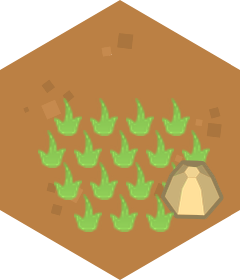
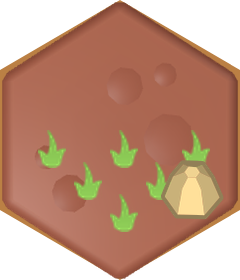
art: les hexagones de blé et de labour du pack EXTRA
Demande du commanditaire. La mesure renverse ce qu'on croyait : nos
tuiles ne sont pas des dalles en perspective mais des hexagones
RÉGULIERS vus de dessus (240 × 280, soit le 2/√3 d'un hexagone régulier).
Les modèles KayKit se rendaient tous à 30° d'élévation — invisible sur
un objet debout, fatal pour une dalle posée au sol, dont l'hexagone
sortait écrasé (240 × 108) et ne pouvait pas recouvrir le nôtre.

- Prise de vue par modèle (KAY_VIEWS, render_kaykit.js) : ces deux
  dalles se rendent à la verticale. Leur hexagone tombe alors à 1,115
  contre 1,167 pour le nôtre, et FLAT_STRETCH = 1,047 rattrape le reste.
- Le sol de champ change de visage : le labour au printemps (mottes et
  sillons), le blé l'été, en automne (miroir) et l'hiver, recolorés par
  la palette de saison. Les rangs de culture restent posés par région et
  donnent les sillons ; leur nuance passe un cran plus soutenue, sans
  quoi ils se fondaient dans le nouveau sol.
- Les deux tuiles de champ suivent le même cycle.
- Le pack EXTRA entre comme TROISIÈME racine (préfixe « extra/ »), pas
  en remplaçant la première. Vérifié fichier par fichier : il reprend
  les 221 modèles du pack de base à deux près (building_watermill_blue
  et building_bridge_B diffèrent). Nous employons le moulin rouge, mais
  basculer la racine aurait changé des modèles sans qu'on le veuille.
  Licence CC0 contrôlée au lancement comme les deux autres ; crédits et
  CREDITS.md à trois packs KayKit.
[…]

diff --git a/tools/render_kaykit.js b/tools/render_kaykit.js
@@ -55,11 +55,14 @@ const key = new THREE.DirectionalLight(0xffffff, 2.1); key.position.set(-4, 7, 3
 const fill = new THREE.DirectionalLight(0xffffff, 0.5); fill.position.set(4, 2, -3); scene.add(fill);
 const half = ${CANVAS} / 2 / ${PPU};
 const cam = new THREE.OrthographicCamera(-half, half, half, -half, 0.01, 400);
-const e = ${EL} * Math.PI / 180, a = ${AZ} * Math.PI / 180, d = 200;
+const d = 200;
 cam.up.set(0, 1, 0); cam.updateProjectionMatrix();
 const loader = new GLTFLoader();
 let current = null;
-window.__shot = (url) => new Promise((res, rej) => {
+// el / az : angles de prise de vue, par défaut ceux des tuiles. Une dalle posée à plat se rend à la
+// verticale (el = 90), sans quoi son hexagone, écrasé par la perspective, ne recouvre pas le nôtre.
+window.__shot = (url, el, az) => new Promise((res, rej) => {
+  const e = (el === undefined ? ${EL} : el) * Math.PI / 180, a = (az === undefined ? ${AZ} : az) * Math.PI / 180;
   loader.load(url, (g) => {
     if (current) scene.remove(current);
     current = g.scene; scene.add(current);
@@ -79,13 +82,14 @@ window.__ready = true;
 
 const MIME = { '.gltf': 'model/gltf+json', '.bin': 'application/octet-stream', '.png': 'image/png', '.js': 'text/javascript' };
 
-function serve(kayRoot, forestRoot, threeDir) {
+function serve(kayRoot, forestRoot, extraRoot, threeDir) {
   const srv = http.createServer((req, res) => {
     const url = decodeURIComponent(req.url.split('?')[0]);
     if (url === '/render.html') { res.writeHead(200, { 'Content-Type': 'text/html' }); res.end(PAGE); return; }
     let file = null, base = null;
     if (url.startsWith('/three/')) { base = threeDir; file = path.join(threeDir, url.slice(7)); }
     else if (url.startsWith('/kk/forest/')) { base = forestRoot; file = path.join(forestRoot, url.slice(11)); }
+    else if (url.startsWith('/kk/extra/')) { base = extraRoot; file = path.join(extraRoot, url.slice(10)); }
     else if (url.startsWith('/kk/')) { base = kayRoot; file = path.join(kayRoot, url.slice(4)); }
     if (!file || !path.resolve(file).startsWith(path.resolve(base)) || !fs.existsSync(file)) {
       res.writeHead(404); res.end('non'); return;
@@ -97,15 +101,21 @@ function serve(kayRoot, forestRoot, threeDir) {
 }
 
 (async () => {
-  const models = JSON.parse(fs.readFileSync(process.argv[2], 'utf8'));
+  // Chaque entrée vaut « alias: "chemin" », ou « alias: { model, el, az } » pour une prise de vue à part.
+  const models = Object.fromEntries(Object.entries(JSON.parse(fs.readFileSync(process.argv[2], 'utf8')))
+    .map(([k, v]) => [k, typeof v === 'string' ? { model: v } : v]));
   const kayRoot = path.join(arg('--src', '/home/user/kaykit/KayKit-Medieval-Hexagon-Pack-1.0'),
     'addons', 'kaykit_medieval_hexagon_pack', 'Assets', 'gltf');
   // second pack : la forêt. Un chemin de modèle qui commence par « forest/ » y est cherché.
   const forestRoot = path.join(arg('--forest', '/home/user/kaykit/KayKit-Forest-Nature-Pack-1.0'), 'gltf');
+  // troisième pack : l'EXTRA du Hexagon Pack, préfixe « extra/ ». Il contient les 221 modèles du pack de base
+  // (à deux près, un moulin bleu et un pont, que nous n'employons pas) plus 183 autres : on le garde à part
+  // plutôt que d'y basculer la racine, pour qu'aucun des modèles déjà en place ne change sans qu'on le veuille.
+  const extraRoot = path.join(arg('--extra', '/home/user/kaykit/extra/Asset4'), 'gltf');
   const out = arg('--out', path.join(CACHE, 'kaykit'));
   fs.mkdirSync(out, { recursive: true });
   const threeDir = ensureThree();
-  const srv = await serve(kayRoot, forestRoot, threeDir);
+  const srv = await serve(kayRoot, forestRoot, extraRoot, threeDir);
   const port = srv.address().port;
   const b = await chromium.launch({ args: ['--use-gl=swiftshader', '--enable-unsafe-swiftshader'] });
   const page = await b.newPage();
@@ -115,17 +125,20 @@ function serve(kayRoot, forestRoot, threeDir) {
 
   const meta = {};
   const errors = [];
-  for (const [name, rel] of Object.entries(models)) {
+  for (const [name, spec] of Object.entries(models)) {
+    const rel = spec.model;
     const url = `/kk/${rel}.gltf`;
-    const disk = rel.startsWith('forest/') ? path.join(forestRoot, `${rel.slice(7)}.gltf`) : path.join(kayRoot, `${rel}.gltf`);
+    const disk = rel.startsWith('forest/') ? path.join(forestRoot, `${rel.slice(7)}.gltf`)
+      : rel.startsWith('extra/') ? path.join(extraRoot, `${rel.slice(6)}.gltf`)
+        : path.join(kayRoot, `${rel}.gltf`);
     if (!fs.existsSync(disk)) { errors.push(`${name} : modèle absent (${rel}.gltf)`); continue; }
     let box;
-    try { box = await page.evaluate((u) => window.__shot(u), url); }
+    try { box = await page.evaluate(([u, el, az]) => window.__shot(u, el, az), [url, spec.el, spec.az]); }
     catch (e) { errors.push(`${name} : ${e.message}`); continue; }
     const buf = await page.locator('#c').screenshot({ omitBackground: true });
     const tmp = path.join(out, `${name}.raw.png`);
     fs.writeFileSync(tmp, buf);
-    meta[name] = { model: rel, box: { min: box.min.map((x) => +x.toFixed(4)), max: box.max.map((x) => +x.toFixed(4)) }, origin: box.origin.map((x) => +x.toFixed(2)) };
+    meta[name] = { model: rel, el: spec.el, az: spec.az, box: { min: box.min.map((x) => +x.toFixed(4)), max: box.max.map((x) => +x.toFixed(4)) }, origin: box.origin.map((x) => +x.toFixed(2)) };
   }
   await b.close();
   srv.close();

diff --git a/tools/build_images.py b/tools/build_images.py
@@ -69,10 +69,23 @@ KAYKIT = dict(pack="KayKit : Medieval Hexagon Pack (1.0)", author="Kay Lousberg"
 
 # Alias de modèle → chemin sous Assets/gltf/ du pack. Le rouge est la couleur d'équipe
 # dont les toits sont les plus proches de notre terre cuite.
+# Étirement vertical des dalles plates, une fois rendues à la verticale (KAY_VIEWS). Nos tuiles sont des
+# hexagones réguliers de 240 × 280 (rapport 1,167) ; l'hexagone KayKit vu de dessus donne 1,115. Le reste
+# de l'écart se rattrape ici — c'est peu, et invisible sur une texture de sol.
+FLAT_STRETCH = 1.047
+
 FOREST = dict(pack="KayKit : Forest Nature Pack (1.0)", author="Kay Lousberg",
               url="https://kaylousberg.itch.io/forest-nature-pack",
               mirror="fourni par le commanditaire (téléchargement direct)",
               license_file="License.txt")
+
+# Pack EXTRA du Hexagon Pack, fourni par le commanditaire. Il reprend les 221 modèles du pack de base (à deux
+# près — un moulin bleu et un pont — que nous n'employons pas) et en ajoute 183. On le garde comme troisième
+# racine, préfixe « extra/ », plutôt que d'y basculer : aucun modèle déjà en place ne change sans qu'on le veuille.
+EXTRA = dict(pack="KayKit : Medieval Hexagon Pack EXTRA (1.0)", author="Kay Lousberg",
+             url="https://kaylousberg.itch.io/kaykit-medieval-hexagon",
+             mirror="fourni par le commanditaire (téléchargement direct)",
+             license_file="License.txt")
 
 KAY_MODELS = {
     # --- pack Forest : les feuillus existent en huit palettes, dont les couleurs de saison ;
@@ -135,6 +148,10 @@ KAY_MODELS = {
     "massif_B": "decoration/nature/mountain_B",
     "massif_C": "decoration/nature/mountain_A",
     "bloc_grand": "forest/Color1/Rock_2_C_Color1",
+    # --- pack EXTRA : les deux dalles hexagonales. Elles se rendent à la VERTICALE (voir KAY_VIEWS) :
+    # nos tuiles sont des hexagones réguliers vus de dessus (240 × 280), pas des dalles en perspective.
+    "ble": "extra/buildings/neutral/building_grain",
+    "terre": "extra/buildings/neutral/building_dirt",
     "caillou_A": "decoration/nature/rock_single_A",
     "caillou_B": "decoration/nature/rock_single_B",
     "caillou_C": "decoration/nature/rock_single_C",
@@ -256,7 +273,9 @@ COLORS = {
     "stone_winter": "#e3eaf0", "dirt_winter": "#e6ebf0",
     "heath_ground": {"spring": "#a9b26a", "summer": "#b0a45a", "autumn": "#b58c55", "winter": SNOW},
     "heather": {"spring": "#b98ccc", "summer": "#a67bb8", "autumn": "#8f6a9e", "winter": "#d9d0e2"},
-    "crop": {"spring": "#8fca5c", "summer": "#a9c24a", "autumn": "#e2b44b", "winter": "#e8edf1"},
+    # les rangs de culture se posent désormais sur une dalle de blé, plus sur de la terre nue : il leur faut
+    # une nuance un cran plus soutenue que le sol de la saison, sinon ils s'y fondent et les sillons disparaissent
+    "crop": {"spring": "#8fca5c", "summer": "#86a637", "autumn": "#c08c26", "winter": "#cfe0ec"},
     "blossom": "#f2d3de",
 }
 
@@ -390,11 +409,12 @@ def fit(im, box):
 class Sources:
     """Accès aux sprites : Hexagon Pack en 2× (cache SVG ou Lanczos), autres packs natifs."""
 
-    def __init__(self, src_root, kay_root=None, animals_root=None, forest_root=None):
+    def __init__(self, src_root, kay_root=None, animals_root=None, forest_root=None, extra_root=None):
         self.src = src_root
         self.kay_root = kay_root
         self.animals_root = animals_root
         self.forest_root = forest_root
+        self.extra_root = extra_root
         self.hp_png = src_root / HP / "PNG"
         self.tiles2x = CACHE / "hex2x_tiles"
         self.objs2x = CACHE / "hex2x_objects"
@@ -457,26 +477,37 @@ class Sources:
         self.kay2x.mkdir(parents=True, exist_ok=True)
         todo = rebuild or not (self.kay2x / "meta.json").exists() or any(
             not (self.kay2x / f"{n}.raw.png").exists() for n in KAY_MODELS)
+        if not todo and (self.kay2x / "meta.json").exists():
+            # une prise de vue modifiée (KAY_VIEWS) ne change pas le nom du fichier : on la compare au cache
+            m = json.loads((self.kay2x / "meta.json").read_text(encoding="utf-8"))["models"]
+            todo = any((m.get(n) or {}).get("el") != KAY_VIEWS.get(n, {}).get("el")
+                       or (m.get(n) or {}).get("az") != KAY_VIEWS.get(n, {}).get("az") for n in KAY_MODELS)
         if not todo:
             return
         jobs = CACHE / "kaykit_models.json"
-        jobs.write_text(json.dumps(KAY_MODELS, indent=1), encoding="utf-8")
+        spec = {n: (dict(model=p, **KAY_VIEWS[n]) if n in KAY_VIEWS else p) for n, p in KAY_MODELS.items()}
+        jobs.write_text(json.dumps(spec, indent=1), encoding="utf-8")
         print(f"rendu des {len(KAY_MODELS)} modèles KayKit (Chromium + three.js)…")
         subprocess.run(["node", str(ROOT / "tools" / "render_kaykit.js"), str(jobs),
-                        "--src", str(self.kay_root), "--forest", str(self.forest_root), "--out", str(self.kay2x)], check=True)
+                        "--src", str(self.kay_root), "--forest", str(self.forest_root), "--extra", str(self.extra_root), "--out", str(self.kay2x)], check=True)
 
     def kay_meta(self):
         if not getattr(self, "_kay_meta", None):
             self._kay_meta = json.loads((self.kay2x / "meta.json").read_text(encoding="utf-8"))
         return self._kay_meta
 
-    def kay(self, name, scale=1.0):
+    def kay(self, name, scale=1.0, sy=1.0):
         """Modèle KayKit rendu : (image rognée, origine x, origine y dans l'image).
 
         L'origine du modèle — le centre de son pied — est au centre du canevas de rendu ;
         après rognage on sait donc exactement par quel point l'ancrer sur la tuile.
+
+        `sy` étire l'image en hauteur seulement. Il ne sert qu'aux pièces **plates** posées au sol :
+        nos tuiles sont dessinées à une élévation plus haute (face du dessus : 137 px pour 240 de large)
+        que celle des rendus 3D (108 px), écart invisible sur un objet debout mais qui saute aux yeux
+        sur une dalle. Voir FLAT_STRETCH.
         """
-        k = (name, scale)
+        k = (name, scale, sy)
         if k in self.kay_cache:
             return self.kay_cache[k]
         if name not in KAY_MODELS:
@@ -494,9 +525,9 @@ class Sources:
         # l'origine du modèle est donnée par le rendu (la caméra vise le milieu du modèle, pas l'origine)
         org = self.kay_meta()["models"][name].get("origin") or [p and 0, 0]
         ox, oy = org[0] - box[0], org[1] - box[1]
-        if scale != 1.0:
-            im = im.resize((max(1, round(im.width * scale)), max(1, round(im.height * scale))), Image.LANCZOS)
-            ox, oy = ox * scale, oy * scale
+        if scale != 1.0 or sy != 1.0:
+            im = im.resize((max(1, round(im.width * scale)), max(1, round(im.height * scale * sy))), Image.LANCZOS)
+            ox, oy = ox * scale, oy * scale * sy
         self.kay_used.add(name)
         self.kay_cache[k] = (im, ox, oy)
         return self.kay_cache[k]
@@ -552,6 +583,15 @@ def kay_model(sprite, season):
     return f"{sprite[5:]}_{season}" if sprite.startswith("kays:") else sprite[4:]
 
 
+# Prise de vue particulière de certains modèles. Par défaut tout se rend à 30° d'élévation et −30° d'azimut,
+# comme les objets posés sur les tuiles. Une **dalle plate** doit au contraire se rendre à la verticale :
+# à 30°, son hexagone est écrasé (240 × 108) et ne peut pas recouvrir le nôtre (240 × 280).
+KAY_VIEWS = {
+    "ble": {"el": 90, "az": 0},
+    "terre": {"el": 90, "az": 0},
+}
+
+
 def L(sprite, x, y, kind="static", seasons=None, mirror=False, scale=1.0, order=None, **extra):
     return dict(sprite=sprite, x=x, y=y, kind=kind, seasons=seasons, mirror=mirror, scale=scale, order=order, **extra)
 
@@ -590,12 +630,18 @@ TILES = {
                                            L(KPOMMIER, 87, 90, height=58, fruits=True), L(KPOMMIER, 60, 108, height=58, fruits=True)],
                   note="Verger : 6 feuillus du pack Forest ; fruits dessinés en été/automne."),
     # --- champs : parcelles en quinconce + foin + clôture
-    "field_1": T("field", "dirt_06", [L("ht:bushGrass:1.9", x, y, "crop") for (x, y) in
-                                      [(34, 68), (52, 68), (70, 68), (88, 68), (26, 84), (44, 84), (62, 84), (80, 84), (98, 84), (34, 100), (52, 100), (70, 100), (88, 100), (44, 116), (62, 116), (80, 116)]]
-                 + [L("obj:hay", 96, 110)], base_kind="dirt", note="Champ : terre nue + rangs de culture (touffes recolorées par saison) + botte de foin."),
-    "field_2": T("field", "dirt_06", [L("ht:bushGrass:1.9", x, y, "crop") for (x, y) in
-                                      [(44, 66), (62, 66), (80, 66), (34, 82), (52, 82), (70, 82), (88, 82), (26, 98), (44, 98), (62, 98), (80, 98), (98, 98), (52, 114), (70, 114)]]
-                 + [L("obj:hay", 30, 116), L("obj:fence", 96, 118)], base_kind="dirt", base_mirror=True, note="Champ : terre nue en miroir + rangs de culture + foin + clôture."),
+    "field_1": T("field", "dirt_06", [L("kay:terre", 60, 70, "field", width=236, flat=True, seasons=["spring"]),
+                                      L("kay:ble", 60, 70, "field", width=240, flat=True, seasons=["summer", "autumn", "winter"])]
+                 + [L("ht:bushGrass:1.9", x, y, "crop") for (x, y) in
+                    [(34, 68), (70, 68), (26, 84), (62, 84), (98, 84), (44, 100), (80, 100), (62, 116)]]
+                 + [L("obj:hay", 96, 110)],
+                 base_kind="dirt", note="Champ : la parcelle de blé du pack EXTRA (dalle hexagonale rendue à la verticale, recolorée par saison), quelques rangs de culture et une botte de foin."),
+    "field_2": T("field", "dirt_06", [L("kay:terre", 60, 70, "field", width=236, flat=True, mirror=True, seasons=["spring"]),
+                                      L("kay:ble", 60, 70, "field", width=240, flat=True, mirror=True, seasons=["summer", "autumn", "winter"])]
+                 + [L("ht:bushGrass:1.9", x, y, "crop") for (x, y) in
+                    [(44, 66), (80, 66), (34, 82), (70, 82), (26, 98), (62, 98), (98, 98), (52, 114)]]
+                 + [L("obj:hay", 30, 116), L("obj:fence", 96, 118)],
+                 base_kind="dirt", base_mirror=True, note="Champ : la même parcelle en miroir, rangs de culture, foin et clôture."),
     # --- hameaux (bâtiments inchangés par la saison)
     "hamlet_1": T("hamlet", "grass_05", [L("kay:home_A_jaune", 58, 90, scale=0.94), L("kay:barrel", 90, 98, scale=1.2), L("kay:fence_wood", 40, 94, scale=0.45)],
                   note="Hameau : maison KayKit + tonneau + clôture."),
@@ -744,6 +790,11 @@ class Composer:
             return layer["height"] / nat.height if layer.get("height") else layer["width"] / nat.width
         return layer["scale"]
 
+    @staticmethod
+    def kay_sy(layer):
+        """Étirement vertical du calque : `flat=True` pour une dalle posée au sol, sinon rien."""
+        return FLAT_STRETCH if layer.get("flat") else float(layer.get("stretch", 1.0))
+
     def layer_image(self, layer, season, index):
         sp = layer["sprite"]
         kind = layer["kind"]
@@ -755,7 +806,7 @@ class Composer:
             _, name, sc = sp.split(":")
             im = self.src.ht(name, float(sc))
         elif sp.startswith("kay:") or sp.startswith("kays:"):
-            im = self.src.kay(kay_model(sp, season), self.kay_scale(layer, season))[0]   # l'échelle est déjà appliquée (l'origine la suit)
+            im = self.src.kay(kay_model(sp, season), self.kay_scale(layer, season), self.kay_sy(layer))[0]   # l'échelle est déjà appliquée (l'origine la suit)
         else:
             raise ValueError(sp)
         if layer["scale"] != 1.0 and not sp.startswith("kay"):
@@ -829,7 +880,7 @@ class Composer:
             im = self.layer_image(layer, season, i)
             if layer["sprite"].startswith("kay"):
                 # modèle 3D : ancré par l'origine du modèle (le centre de son pied), pas par le bas de l'image
-                ox, oy = self.src.kay(kay_model(layer["sprite"], season), self.kay_scale(layer, season))[1:]
+                ox, oy = self.src.kay(kay_model(layer["sprite"], season), self.kay_scale(layer, season), self.kay_sy(layer))[1:]
                 if layer["mirror"]:
                     ox = im.width - ox
                 x = round(layer["x"] * SCALE - ox)
@@ -912,8 +963,8 @@ def draw_wind(size=100):
 # Construction
 # ===========================================================================
 class Builder:
-    def __init__(self, src_root, repo, sheets=False, kay_root=None, animals_root=None, forest_root=None):
-        self.src = Sources(src_root, kay_root, animals_root, forest_root)
+    def __init__(self, src_root, repo, sheets=False, kay_root=None, animals_root=None, forest_root=None, extra_root=None):
+        self.src = Sources(src_root, kay_root, animals_root, forest_root, extra_root)
         self.animals_root = animals_root
         self.repo = repo
         self.img_root = repo / "assets" / "img"
@@ -1005,11 +1056,20 @@ class Builder:
                 col = "#%02x%02x%02x" % tuple(int(v) for v in arr)
                 self.emit(f"ground_{kind}_{season}", "tiles", im, HP, self.src.hp_original(base), f"Sol « {kind} » ({season}) pour le décor composé par région.",
                           ground=kind, season=season, ground_color=col)
-        # sol de champ : terre nue (dirt_06) ; les rangs de culture sont des objets posés par région (obj_crop_*)
+        # Sol de champ : les deux dalles hexagonales du pack EXTRA, rendues à la verticale, recolorées par saison —
+        # le labour au printemps, le blé le reste de l'année. Les rangs de culture restent posés par région
+        # (obj_crop_*) : ils donnent les sillons, la dalle donne la terre et les épis.
         for season in SEASONS:
-            base = comp.base_for(T("field", "dirt_06", [], base_kind="dirt"), season)
+            # la dalle de terre est plus étroite que celle de blé : à largeur égale elle dépasserait en hauteur
+            spec = T("field", "dirt_06", [L("kay:terre" if season == "spring" else "kay:ble", 60, 70, "field",
+                                            width=236 if season == "spring" else 240, flat=True,
+                                            mirror=(season == "autumn"))], base_kind="dirt")
+            base = comp.compose(f"ground_field_{season}", spec, season)
             arr = np.asarray(base)[120:170, 95:145, :3].reshape(-1, 3).mean(0)
-            self.emit(f"ground_field_{season}", "tiles", base, HP, self.src.hp_original("dirt_06"), f"Sol de champ ({season}) : terre nue, les rangs de culture sont ajoutés par région.",
+            quoi = "terre labourée" if season == "spring" else "blé"
+            # le pack déclaré est celui du fond (dirt_06) ; la dalle KayKit est créditée d'elle-même (kay_used)
+            self.emit(f"ground_field_{season}", "tiles", base, HP, self.src.hp_original("dirt_06"),
+                      f"Sol de champ ({season}) : {quoi} (dalle hexagonale du pack EXTRA, rendue à la verticale) ; les rangs de culture sont ajoutés par région.",
                       ground="field", season=season, ground_color="#%02x%02x%02x" % tuple(int(v) for v in arr))
         im = comp.base_for(T("dry", "grass_05", [], base_kind="dry"), "summer")
         arr = np.asarray(im)[120:170, 95:145, :3].reshape(-1, 3).mean(0)
@@ -1439,17 +1499,20 @@ class Builder:
                 "licenseFile": f"{MIRROR}/blob/main/{meta['license_text_path']}",
                 "files": sorted(self.per_pack[pid]),
             })
-        for meta, prefix in ((KAYKIT, False), (FOREST, True)):
-            used = sorted(n for n in self.src.kay_used if KAY_MODELS[n].startswith("forest/") == prefix)
+        for meta, pref in ((KAYKIT, ""), (FOREST, "forest/"), (EXTRA, "extra/")):
+            def group(n, pref=pref):
+                p = KAY_MODELS[n]
+                return (p.startswith(pref) if pref else not (p.startswith("forest/") or p.startswith("extra/")))
+            used = sorted(n for n in self.src.kay_used if group(n))
             if not used:
                 continue
             credits.append({
                 "pack": meta["pack"], "author": meta["author"], "license": "CC0 1.0", "licenseUrl": CC0_URL,
                 "url": meta["url"], "mirror": meta["mirror"],
-                "mirrorPath": "gltf" if prefix else "addons/kaykit_medieval_hexagon_pack/Assets/gltf",
-                "licenseFile": meta["mirror"] if prefix else f"{meta['mirror']}/blob/main/{meta['license_file']}",
-                "note": "modèles 3D rendus en PNG isométriques par tools/render_kaykit.js (élévation 30°, azimut −30°, 120 px/unité)",
-                "files": sorted(KAY_MODELS[n].replace("forest/", "") + ".gltf" for n in used),
+                "mirrorPath": "gltf" if pref == "forest/" else "Asset4/gltf" if pref == "extra/" else "addons/kaykit_medieval_hexagon_pack/Assets/gltf",
+                "licenseFile": meta["mirror"] if pref else f"{meta['mirror']}/blob/main/{meta['license_file']}",
+                "note": "modèles 3D rendus en PNG par tools/render_kaykit.js (élévation 30°, azimut −30°, 120 px/unité ; les dalles plates à la verticale)",
+                "files": sorted(KAY_MODELS[n][len(pref):] + ".gltf" for n in used),
             })
         if self.per_pack["animaux3d"]:
             prov = json.loads((self.animals_root / "PROVENANCE.json").read_text(encoding="utf-8"))
@@ -1518,6 +1581,16 @@ def check_forest_license(forest_root):
     FOREST["license_text_path"] = FOREST["license_file"]
 
 
+def check_extra_license(extra_root):
+    p = extra_root / EXTRA["license_file"]
+    if not p.exists():
+        raise RuntimeError(f"Pack EXTRA introuvable : {p}")
+    txt = p.read_text(encoding="utf-8", errors="replace")
+    if "creativecommons.org/publicdomain/zero/1.0" not in txt:
+        raise RuntimeError(f"Licence CC0 introuvable dans {p}")
+    EXTRA["license_text_path"] = EXTRA["license_file"]
+
+
 def check_animals_licenses(animals_root):
     """Chaque modèle d'animal doit porter une licence libre non virale (CC0 ou CC-BY)."""
     p = animals_root / "PROVENANCE.json"
@@ -1541,6 +1614,7 @@ def main():
     ap.add_argument("--kaykit", default=os.environ.get("KAYKIT_ROOT", "/home/user/kaykit/KayKit-Medieval-Hexagon-Pack-1.0"))
     ap.add_argument("--animaux", default=os.environ.get("ANIMAUX3D_ROOT", "/home/user/animaux3d"))
     ap.add_argument("--forest", default=os.environ.get("FOREST_ROOT", "/home/user/kaykit/KayKit-Forest-Nature-Pack-1.0"))
+    ap.add_argument("--extra", default=os.environ.get("EXTRA_ROOT", "/home/user/kaykit/extra"))
     ap.add_argument("--out", default=str(ROOT))
     ap.add_argument("--rebuild-cache", action="store_true", help="re-rasterise les SVG et ré-extrait les sprites 2×")
     ap.add_argument("--sheets", action="store_true", help="écrit des planches-contact par saison dans tools/cache/sheets/")
@@ -1550,8 +1624,10 @@ def main():
     check_licenses(src_root)
     check_kaykit_license(kay_root)
     check_forest_license(Path(args.forest))
+    check_extra_license(Path(args.extra))
     check_animals_licenses(animals_root)
-    b = Builder(src_root, repo, sheets=args.sheets, kay_root=kay_root, animals_root=animals_root, forest_root=Path(args.forest))
+    b = Builder(src_root, repo, sheets=args.sheets, kay_root=kay_root, animals_root=animals_root,
+                forest_root=Path(args.forest), extra_root=Path(args.extra) / "Asset4")
     b.src.prepare(rebuild=args.rebuild_cache)
     b.build_tiles()
     b.build_deco()

diff --git a/JOURNAL_DE_BORD.md b/JOURNAL_DE_BORD.md
@@ -380,6 +380,7 @@ Le proxy réseau bloque les sites des banques ; les assets sont récupérés dep
 | 2026-09-21 | 76 | Lead (suite du retour joueur) | **L'échelle des étoiles était réglée sur un bot, pas sur des joueurs.** Mesure faite avant de toucher quoi que ce soit : quatre niveaux de jeu (meilleur coup immédiat, un des trois meilleurs, un des six meilleurs, au hasard) sur les **cinquante îles, trois parties chacune**, rapportés à la médiane du bot de calibrage. Résultat : le jeu au hasard rend **43 %** de cette médiane, un joueur tranquille **66 %**, le meilleur coup immédiat **73 %**. Or la première étoile était à 55 % — c'est-à-dire à peine au-dessus du hasard — et la deuxième à 80 %, hors de portée d'un joueur ordinaire. Conséquence chiffrée : un joueur « un des six meilleurs » décrochait **4 à 9 étoiles par chapitre, médiane 5**, quand la porte en demande 6 ; il ne franchissait que **2 portes sur 9** à l'étoile. Même le bot glouton en ratait 3. Le mur était dans les nombres. **Nouvelle échelle : 45 / 65 / 85 %**, l'étoile d'or inchangée à 100 %. Le même joueur passe alors **8 portes sur 9** (la neuvième par la patience), le jeu au hasard n'en passe que 2, et aucune île ne lui refuse la première étoile. Les cinquante îles n'ont pas été rejouées : la colonne d'or **est** la médiane du bot, les trois seuils s'en déduisent exactement. **Rattrapage rétroactif** (`restarFromBest`) : au lancement, le meilleur score gardé pour chaque île est repassé dans la nouvelle échelle et rend les étoiles correspondantes — sans jamais en retirer. Pour cela, `islandCells` recalcule le nombre de cases réel d'une île (le masque, plus les cases forcées) sans jouer la partie : vérifié identique à `board.cells` et à `Island.thresholds` sur les cinquante îles | `rules.test.js` : les quatre seuils montent sur les 50 îles, valent bien 45 / 65 / 85 % de l'or, `islandCells`/`islandThresholds` égaux à ceux de la partie, et cinq cas de rattrapage (score rendu en étoiles, seconde passe sans effet, aucune étoile retirée, score d'or, score nul ignoré). `tests/gate.js` : au lancement, l'île 7 retrouve ses deux étoiles et c'est écrit dans la sauvegarde. `cloud`, `events`, `calm`, `autoplay` au vert | Densité des massifs de roche |
 | 2026-09-21 | 77 | Lead (retour du commanditaire) | **Massifs trop clairsemés** : « beaucoup de vide autour des roches dans l'hexagone ». Une case de roche ne portait que six objets (un sommet, trois crêtes, deux cailloux) là où une case de forêt en porte seize à vingt-neuf : la pierre faisait un petit tas au milieu d'un hexagone nu. L'éboulis est maintenant posé en trois couches — quatre à sept blocs moyens espacés, onze à quinze pierres serrées jusqu'aux bords, puis trois ou quatre pierres **d'avant-plan** : un objet étant dessiné au-dessus de son point d'ancrage, le bas de l'hexagone restait vide sans elles (d'où le `yMin` ajouté à `sample`, pendant du `yMax` existant). Sommet, crêtes à cheval sur les arêtes communes, taille tirée au sort et miroir : inchangés. Une case isolée passe de 3 à 22 pierres, une case de massif de 6 à environ 25 | Captures avant/après sur l'île 13, une fois en roche forcée partout (le massif) et une fois en jeu normal (les cases isolées, là où le vide se voyait le plus). `calm`, `mobile`, `feel`, `fauna`, `gate`, `rules` au vert | — |
 | 2026-09-21 | 78 | Lead (retour du commanditaire) | **Ce que le jeu ouvrait sans le dire.** Relevé complet fait dans le code : les dix-sept mécaniques de `MECH_AT` ont toutes leur carte à l'île qui les introduit, plus quatre cartes déclenchées par l'événement (sentiers, rivière-lac, friche, changement de climat) — rien à reprocher de ce côté. Mais **sept choses s'ouvraient en silence**, et le jeu se joue surtout au téléphone, où l'infobulle n'existe pas : trois modes (Île du jour à l'île 8, Île infinie après la 10, Jardin à la première île finie) ne se signalaient que par un bouton qui cessait d'être grisé ; les trois ou quatre améliorations d'Atelier de chaque chapitre apparaissaient au milieu des autres ; la carte postale, le Cahier des recettes et l'étoile d'or n'étaient nommés nulle part — l'étoile d'or ne se montrait même qu'une fois les trois étoiles acquises. **(1)** Un bouton fermé écrit désormais sous quelle condition il s'ouvre, et un mode ouvert jamais essayé porte « nouveau » jusqu'à ce qu'on l'essaie (`Save.seen.mode_*`). **(2)** `celebrateThing` : la bannière des succès sert aussi aux déblocages, une fois chacun (`campaign.announced`). **(3)** L'Atelier annonce la moisson du chapitre en toutes lettres et marque les cartes neuves. **(4)** L'étoile d'or se nomme et dit son prix dès **deux** étoiles. **(5)** Et surtout, retour du commanditaire : « rien n'apprend la fusion, les tuiles de la file n'ont pas de signe distinctif ». `Island.buildTargets()` (en cache, recalculé au changement de plateau ou de tuile) rend les tuiles **déjà posées** où la tuile du moment peut aller ; la file porte une pastille « bâtir / fusion / ouvrage / réparer · N » et le plateau entoure ces tuiles d'un liseré pointillé, doré pour bâtir, mauve pour fusionner, vert pour un ouvrage. Au passage, `BALANCE.build.level3From` passait de 10 à 31, d'accord enfin avec `MECH_AT`, et le README avec lui | **`tests/decouverte.js`** (nouveau, en viewport de téléphone) : dix-sept vérifications — le bouton fermé dit quand et tient sur une ligne, le mode neuf se marque puis s'éteint, la bannière annonce et ne se répète pas, l'Atelier annonce sa moisson et marque les neuves, la pastille et les contours apparaissent quand une pose sur tuile est possible, l'étoile d'or paraît à deux étoiles et pas à une. `rules`, `gate`, `mobile`, `fauna`, `calm`, `autoplay` au vert | Pack EXTRA |
+| 2026-09-21 | 79 | Lead (demande du commanditaire) | **Les hexagones de blé et de terre du pack EXTRA.** Mesure d'abord, et elle renverse ce qu'on croyait : nos tuiles ne sont pas des dalles en perspective mais des **hexagones réguliers vus de dessus** (240 × 280, rapport 1,167 — le 2/√3 d'un hexagone régulier). Les modèles KayKit, eux, se rendaient tous à 30° d'élévation : invisible sur un objet debout, fatal pour une dalle posée au sol, dont l'hexagone sortait écrasé (240 × 108) et ne pouvait pas recouvrir le nôtre. D'où un rendu **à la verticale** pour ces deux dalles (`KAY_VIEWS`, prise de vue par modèle dans `render_kaykit.js`) : l'hexagone tombe alors à 1,115, et `FLAT_STRETCH = 1,047` rattrape le reste. **Le sol de champ change vraiment de visage** : au lieu d'une terre nue recolorée, la dalle de **labour** au printemps (mottes et sillons), la dalle de **blé** l'été, en automne (miroir) et l'hiver, recolorées par la palette de saison ; les rangs de culture restent posés par région et donnent les sillons. Les rangs se fondaient dans le nouveau sol : leur nuance passe un cran plus soutenue (`COLORS["crop"]` été et automne). Les deux tuiles de champ suivent le même cycle. Le pack EXTRA entre comme **troisième racine** (préfixe `extra/`), pas en remplaçant la première : vérifié fichier par fichier, il reprend les 221 modèles du pack de base **à deux près** — `building_watermill_blue` et `building_bridge_B` diffèrent — et nous employons le moulin rouge, mais basculer la racine aurait changé des modèles sans qu'on le veuille. Licence CC0 contrôlée au lancement comme les deux autres, crédits et `CREDITS.md` à trois packs KayKit | Contrôle d'alignement du pipeline (aucun calque hors de l'hexagone) sur les 43 tuiles × 4 saisons — il a d'ailleurs attrapé la dalle de terre, plus étroite que celle de blé, qui dépassait en hauteur à largeur égale (236 au lieu de 240). Planche des quatre saisons (sol + deux tuiles), captures en jeu d'une île de champs en été et en automne. `rules`, `gate`, `decouverte`, `fauna`, `calm`, `mobile`, `autoplay` au vert | Reste du pack EXTRA : abreuvoir, sanctuaire, nénuphar, botte ronde, souches, le port |
 
 ---
 
@@ -413,3 +414,4 @@ Le proxy réseau bloque les sites des banques ; les assets sont récupérés dep
 | Première étoile à 55 % de la médiane du bot de calibrage, soit le niveau du jeu au hasard (43 %) ; un joueur ordinaire plafonnait à cinq étoiles par chapitre, une de moins que la porte | Échelle ramenée à 45 / 65 / 85 % après mesure de quatre niveaux de jeu sur les cinquante îles ; l'étoile d'or reste à 100 % |
 | Trois modes de jeu, les améliorations d'Atelier, la carte postale, le Cahier et l'étoile d'or s'ouvraient sans un mot — au téléphone, un bouton qui cesse d'être grisé ne se remarque pas | Le bouton fermé dit sa condition, le mode neuf porte « nouveau », une bannière annonce chaque déblocage une fois, l'Atelier annonce sa moisson de chapitre |
 | Bâtir et fusionner ne s'apprenaient qu'en survolant une tuile déjà posée au hasard — impossible au doigt | `Island.buildTargets()` : pastille sur la tuile de la file (« bâtir / fusion · N ») et liseré pointillé sur les tuiles visées |
+| Une dalle hexagonale posée à plat, rendue à 30° comme le reste, sortait écrasée (240 × 108) : son hexagone ne pouvait pas recouvrir le nôtre, qui est un hexagone **régulier vu de dessus** | Prise de vue par modèle (`KAY_VIEWS`) : les dalles plates se rendent à la verticale, `FLAT_STRETCH` rattrape l'écart qui reste |

diff --git a/CREDITS.md b/CREDITS.md
@@ -81,6 +81,8 @@ Toutes les œuvres ci-dessous appartiennent à leurs auteurs et sont utilisées 
   - Fichiers : 48
 - **KayKit : Forest Nature Pack (1.0)** — Kay Lousberg — licence CC0 1.0 ([texte](https://creativecommons.org/publicdomain/zero/1.0/)) — [source](https://kaylousberg.itch.io/forest-nature-pack) — [miroir utilisé](fourni par le commanditaire (téléchargement direct))
   - Fichiers : 48
+- **KayKit : Medieval Hexagon Pack EXTRA (1.0)** — Kay Lousberg — licence CC0 1.0 ([texte](https://creativecommons.org/publicdomain/zero/1.0/)) — [source](https://kaylousberg.itch.io/kaykit-medieval-hexagon) — [miroir utilisé](fourni par le commanditaire (téléchargement direct))
+  - Fichiers : buildings/neutral/building_dirt.gltf, buildings/neutral/building_grain.gltf
 - **Animaux 3D (attribution)** — Baby chick by Poly by Google, Bear by Poly by Google, Duck by Poly by Google, Goat by Poly by Google, Great horned owl by Poly by Google, Hen by Poly by Google, Penguin by Poly by Google — licence CC BY 3.0 ([texte](https://creativecommons.org/licenses/by/3.0/)) — [source](https://poly.pizza/) — [miroir utilisé](https://github.com/i3w-learn/3DVR_PIPELINE)
   - Fichiers : 7
 - **Animaux 3D (attribution)** — Rabbit by Poly by Google — licence CC BY 3.0 ([texte](https://creativecommons.org/licenses/by/3.0/)) — [source](https://poly.pizza/) — [miroir utilisé](https://github.com/tedgoddard/google_poly)
